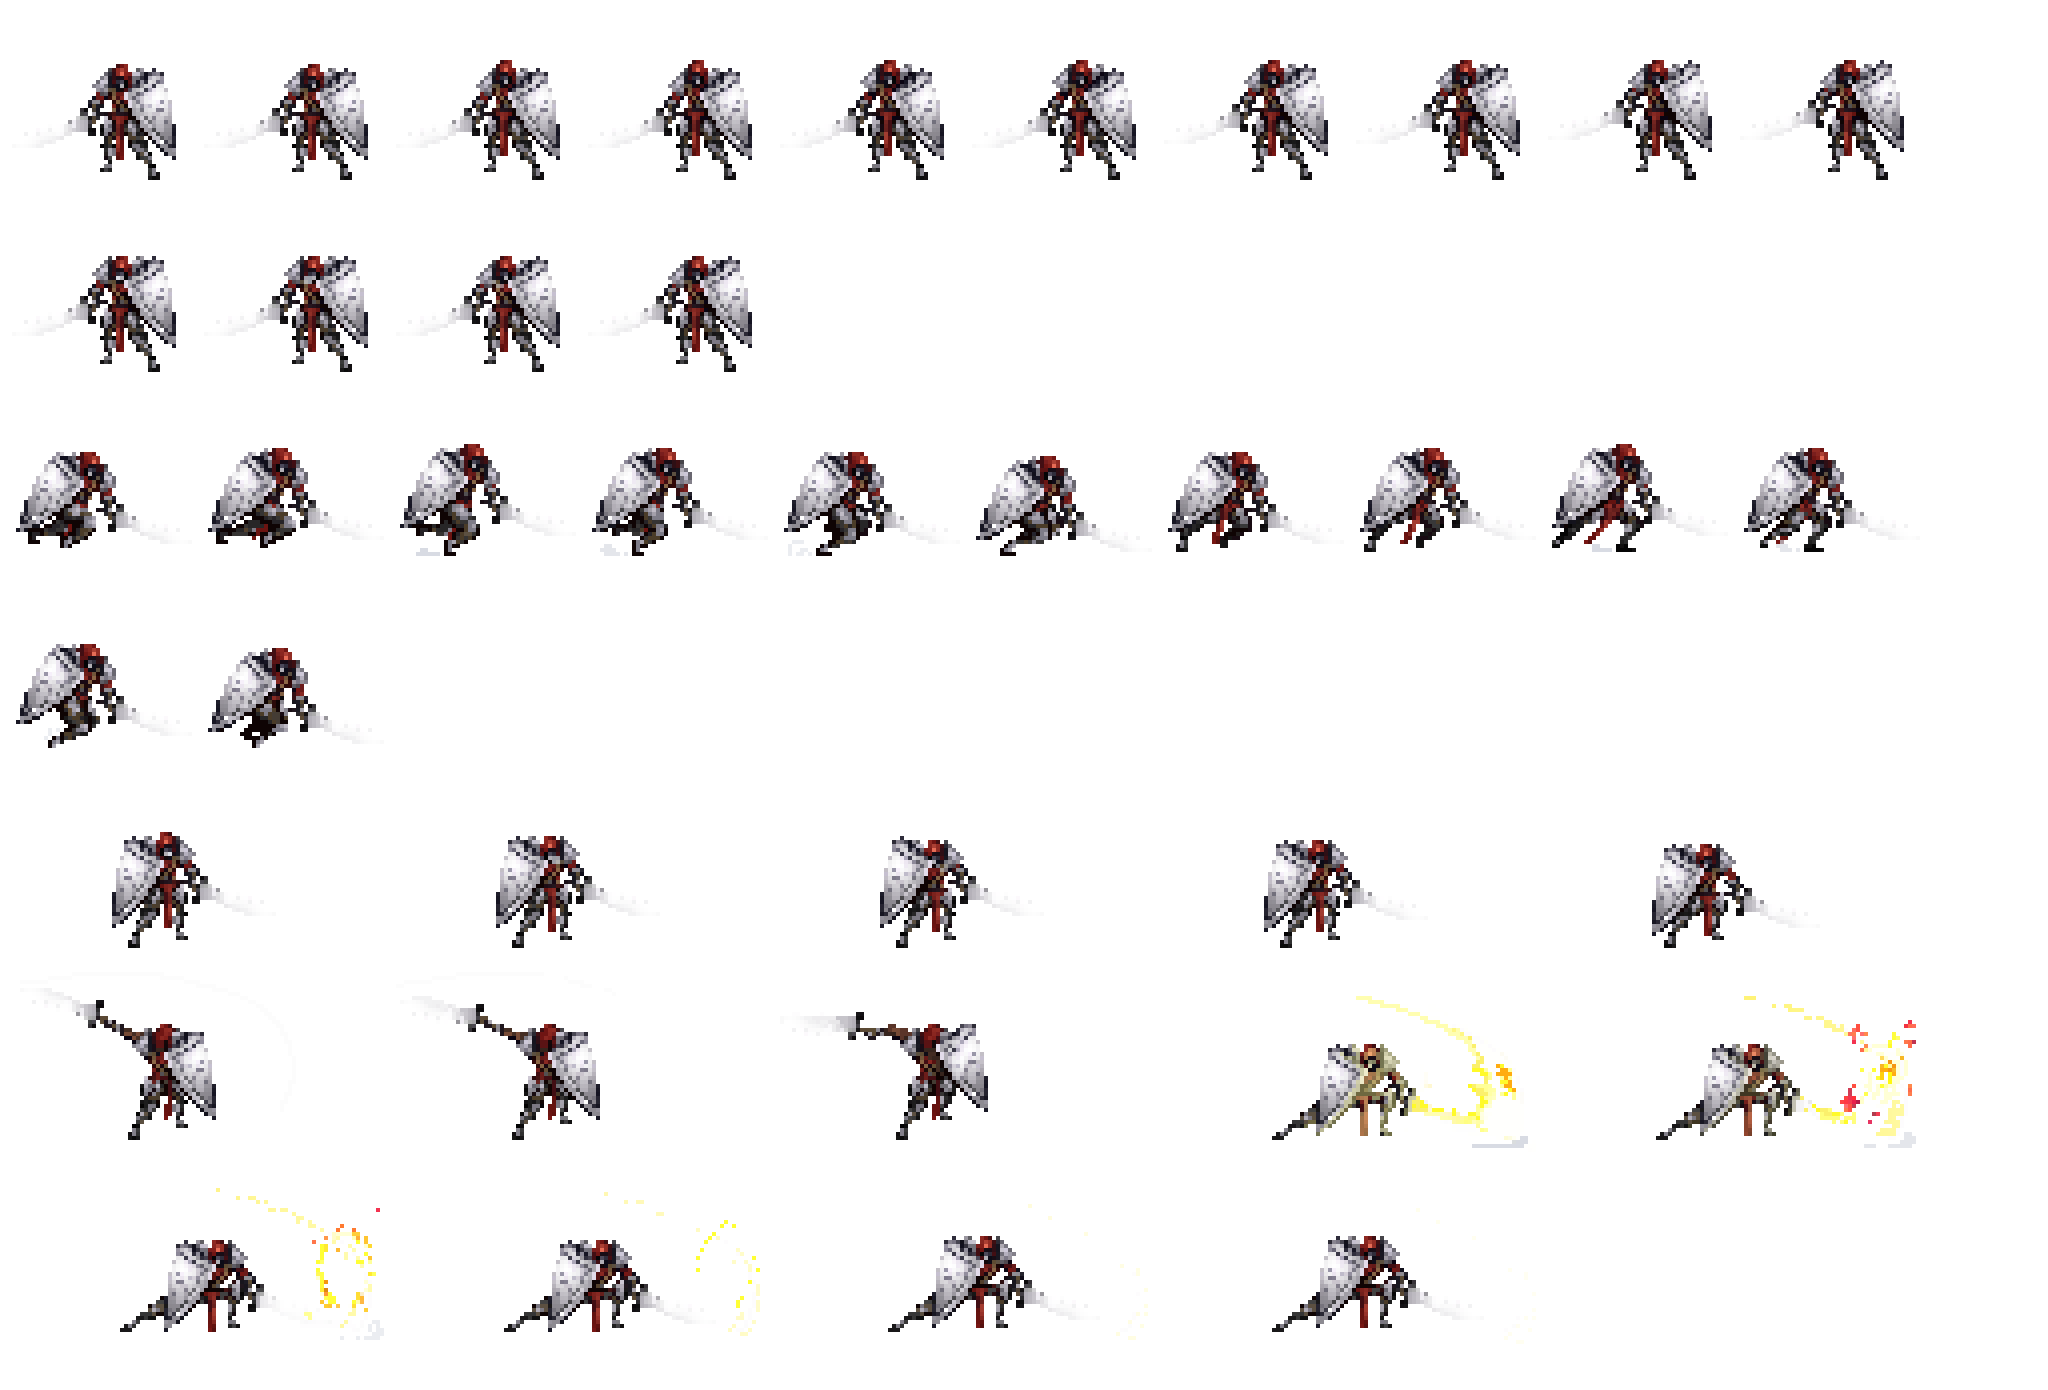
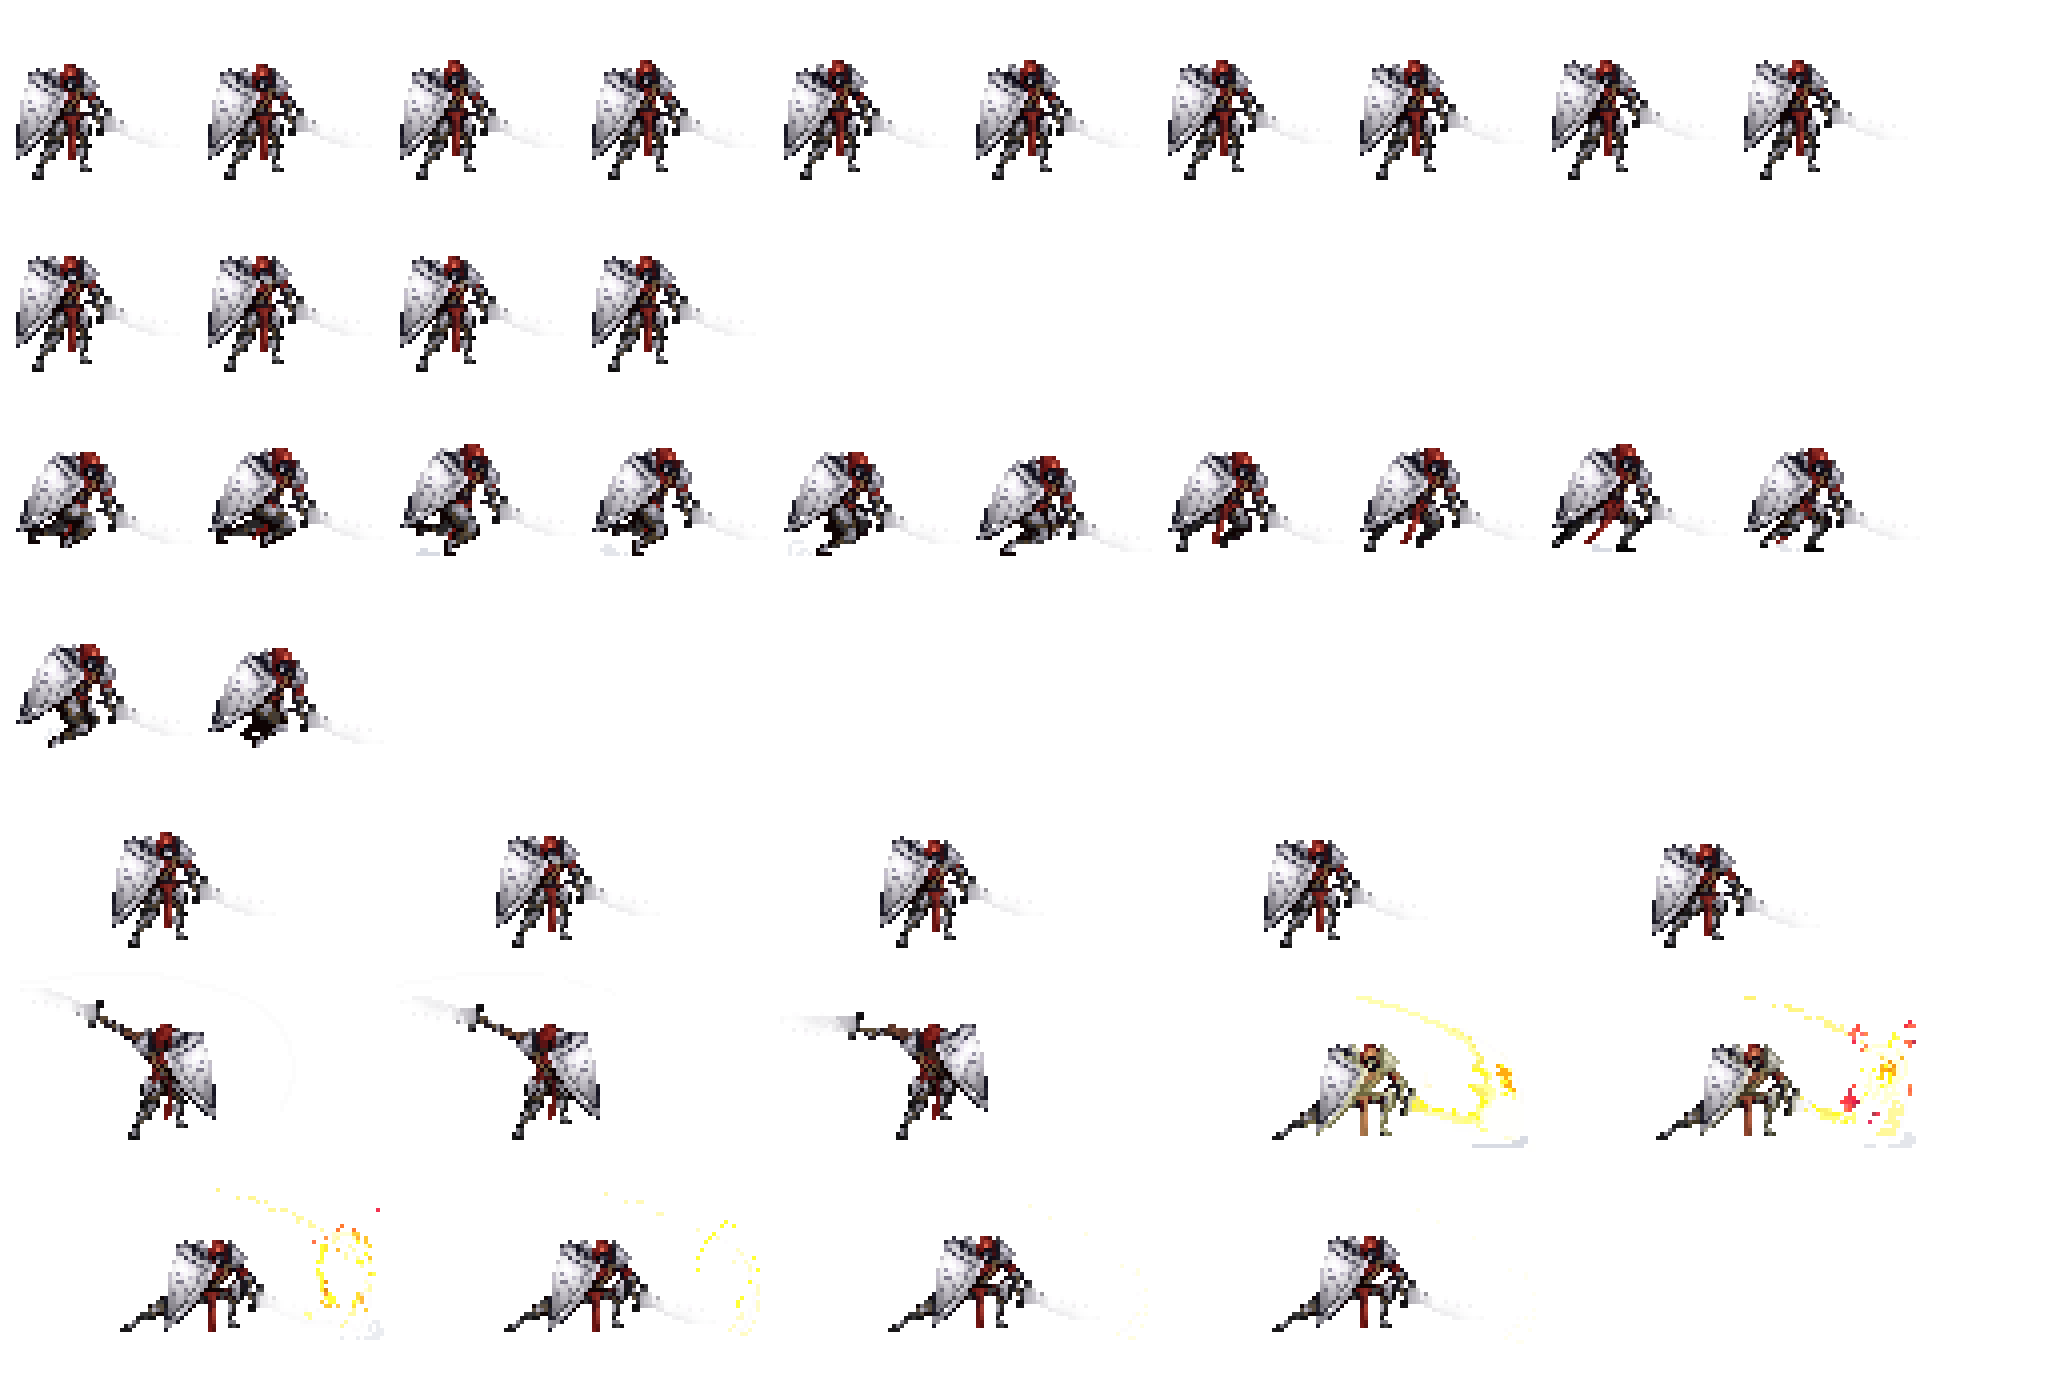
animation direction for flipping on x-axis

Changed region(s): [[0.0, 0.0309, 0.9375, 0.1237], [0.0, 0.1856, 0.375, 0.2784]]

diff --git a/oak/components/sprite_animation.cpp b/oak/components/sprite_animation.cpp
@@ -5,6 +5,7 @@
 #include <core/camera.h>
 #include <core/time.h>
 #include <debug.h>
+#include "animator.h"
 
 using namespace oak;
 
@@ -42,11 +43,13 @@ SpriteAnimation::SpriteAnimation(
 
   maxFramesX = texture.getWidth() / frameW;
   maxFramesY = texture.getHeight() / frameH;
+  //this->isFlipped = false;
 
 
   glGenVertexArrays(1, &VAO);
   glGenBuffers(1, &VBO);
-  setFrame();
+  setFrame(ANIM_DIRECTION_RIGHT);
+  lastFrameTime = Time::getTimeNow();
 }
 
 SpriteAnimation::~SpriteAnimation()
@@ -60,10 +63,11 @@ void SpriteAnimation::reset()
   curFrameX = 0;
   curFrameY = startFrameY;
   curFrameCount = 0;
-  setFrame();
+  setFrame(ANIM_DIRECTION_RIGHT);
+  lastFrameTime = Time::getTimeNow();
 }
 
-bool SpriteAnimation::onUpdate()
+bool SpriteAnimation::onUpdate(uchar direction, bool hasChangedDirection)
 {
   bool hasAnimEnded = false;
 
@@ -101,9 +105,15 @@ bool SpriteAnimation::onUpdate()
     //LOG << "here";
     //LOG << "new frame: " << curFrameX << ", " << curFrameY;
 
-    setFrame();
+    setFrame(direction);
+    lastFrameTime = Time::getTimeNow();
 
     
+  }
+  //if on same frame but the direction has changed
+  else if (hasChangedDirection)
+  {
+    setFrame(direction);
   }
 
   if (isLooping)
@@ -139,10 +149,8 @@ void SpriteAnimation::onDraw(float positionX, float positionY) const
   glDrawArrays(GL_TRIANGLES, 0, 6);
 }
 
-void SpriteAnimation::setFrame()
+void SpriteAnimation::setFrame(uchar direction)
 {
-  lastFrameTime = Time::getTimeNow();
-
   Texture& texture = Resources::getTextureByID(textureID);
   
   float xx = Window::worldToViewportCoords((float)displayW) * 0.5f;
@@ -150,6 +158,15 @@ void SpriteAnimation::setFrame()
 
   float xMin = (float)(curFrameX * frameW)/ texture.getWidth();
   float xMax = (float)((curFrameX+1) * frameW) / texture.getWidth();
+
+  //flip x
+  if (direction == ANIM_DIRECTION_LEFT)
+  {
+    float tmp = xMin;
+    xMin = xMax;
+    xMax = tmp;
+  }
+
   float yMin = (float)(curFrameY * frameH) / texture.getHeight();
   float yMax = (float)((curFrameY + 1) * frameH) / texture.getHeight();
 

diff --git a/oak/components/animator.cpp b/oak/components/animator.cpp
@@ -7,6 +7,7 @@ Animator::Animator(uchar baseAnimType, SpriteAnimation* baseAnimation)
   this->baseAnim = baseAnimType;
   anims[baseAnimType] = baseAnimation;
   this->curAnim = baseAnimType;
+
 }
 
 Animator::~Animator()
@@ -23,12 +24,13 @@ void Animator::onUpdate()
 {
   if (curAnim > 0)
   {
-    bool hasEnded = anims.at(curAnim)->onUpdate();
+    bool hasEnded = anims.at(curAnim)->onUpdate(direction, hasChangedDirection);
     if (hasEnded && curAnim != baseAnim)
     {
       setAnim(baseAnim, true);
     }
   }
+  hasChangedDirection = false;
 }
 
 void Animator::onDraw() const
@@ -66,4 +68,19 @@ void Animator::setAnim(const uchar animType, const bool ignorePriority)
 uchar Animator::getCurAnimType() const
 {
   return curAnim;
+}
+
+
+uchar Animator::getDirection() const
+{
+  return direction;
+}
+
+void Animator::setDirection(uchar direction)
+{
+  if (this->direction != direction)
+  {
+    hasChangedDirection = true;
+    this->direction = direction;
+  }
 }

diff --git a/oak/components/animator.h b/oak/components/animator.h
@@ -8,7 +8,8 @@
 
 namespace oak
 {
-  
+  cnum ANIM_DIRECTION_RIGHT = 0;
+  cnum ANIM_DIRECTION_LEFT = 1;
 
   class Animator : public Component
   {
@@ -16,7 +17,8 @@ namespace oak
     std::unordered_map<uchar, SpriteAnimation*> anims;
     uchar curAnim;
     uchar baseAnim;
-    
+    uchar direction;
+    bool hasChangedDirection = false;
 
     public:
       Animator(uchar baseAnimType, SpriteAnimation* baseAnimation);
@@ -25,6 +27,8 @@ namespace oak
       void addAnim(uchar animType, SpriteAnimation* animation);
       void setAnim(uchar animType, const bool ignorePriority = false);
       uchar getCurAnimType() const;
+      uchar getDirection() const;
+      void setDirection(uchar direction);
 
 
       void onUpdate() override;

diff --git a/prefabs/u_player.cpp b/prefabs/u_player.cpp
@@ -77,15 +77,9 @@ UPlayer::UPlayer()
   animator->setAnim(ANIM_TYPE_IDLE);
   addAnimator(animator);
 
-  //addComponent(
-  //  new SpriteAnimation(
-  //   // "anim_test2.png", 192, 192, 100, 100, 0.04f, "default", 14, 0)
-  //    //"anim_test2.png", 192, 192, 100, 100, 0.04f, "default", 12, 2)
-  //    "anim_test2.png", 384, 192, 200, 100, 0.04f, "default", 14, 4)
-  //);
   addAbility(new Shoot());
   addAbility(new SwordAttack());
-  addCollision(new CollisionRect(10.0f, -10.0f, 40.0f, 60.0f));
+  addCollision(new CollisionRect(0.0f, -10.0f, 40.0f, 60.0f));
   faction = FACTION_PLAYER;
 }
 

diff --git a/commands/cast_abilitys.cpp b/commands/cast_abilitys.cpp
@@ -25,20 +25,6 @@ void CastAbilitys::execute()
   if (Input::isKeyDown(KeyCode::Q))
   {
     beginCast(0);
-    //Unit* unit = player->getAssignedUnit();
-    //Ability* ability = unit->getAbilityByIndex(0);
-
-    //if (ability->getTargetType() == TARGET_TYPE_POINT)
-    //{
-    //  glm::vec2 point = Camera::cursorToWorld2D();
-    //  ability->castOnPoint(point);
-    //}
-    //else if (ability->getTargetType() == TARGET_TYPE_NO_TARGET)
-    //{
-    //  //glm::vec2 target = Camera::cursorToWorld2D();
-    //  ability->castNoTarget();
-    //}
-
   }
 
   if (Input::isKeyDown(KeyCode::E))

diff --git a/unit.h b/unit.h
@@ -32,6 +32,8 @@ namespace game
   cnum ANIM_PRIORITY_ABILITY =  2;
   cnum ANIM_PRIORITY_DISABLE =  3;
 
+  
+
   class Unit : public oak::Entity
   {
 
@@ -41,7 +43,6 @@ namespace game
     std::vector<Ability*> abilitys;
     int health;
     oak::Animator* animator;
-    
 
     public:
       Unit();
@@ -61,6 +62,8 @@ namespace game
       
       void addAnimator(oak::Animator* animator);
       void setAnimation(uchar animType);
+      uchar getAnimDirection() const;
+      void setAnimDirection(uchar direction);
 
       //void onStart() override;
       //void onDestroy() override;

diff --git a/commands/movement.cpp b/commands/movement.cpp
@@ -47,7 +47,20 @@ void Movement::execute()
     unit->position.x += speed * axisX;
     unit->position.y += speed * axisY;
 
+    //flip direction if required
+    if (axisX > 0.0f && unit->getAnimDirection() != ANIM_DIRECTION_RIGHT)
+    {
+      unit->setAnimDirection(ANIM_DIRECTION_RIGHT);
+      LOG << "DIRECTION RIGHT";
+    }
+    else if (axisX < 0.0f && unit->getAnimDirection() != ANIM_DIRECTION_LEFT)
+    {
+      unit->setAnimDirection(ANIM_DIRECTION_LEFT);
+      LOG << "DIRECTION LEFT";
+    }
+
     unit->setAnimation(ANIM_TYPE_RUN);
+
   }
   else
   {

diff --git a/oak/components/sprite_animation.h b/oak/components/sprite_animation.h
@@ -5,6 +5,7 @@
 #include <string>
 #include <core/types.h>
 
+
 namespace oak
 {
 
@@ -52,12 +53,13 @@ namespace oak
       ~SpriteAnimation();
 
       void reset();
-      bool onUpdate();
+      bool onUpdate(uchar direction, bool hasChangedDirection);
       void onDraw(float positionX, float positionY) const;
       float getTotalAnimDuration() const;
       uchar getPriority() const;
+
     private:
-      void setFrame();
+      void setFrame(uchar direction);
   };
 }
 #endif

diff --git a/unit.cpp b/unit.cpp
@@ -135,3 +135,13 @@ void Unit::setAnimation(uchar animType)
 {
   animator->setAnim(animType);
 }
+
+uchar Unit::getAnimDirection() const
+{
+  return animator->getDirection();
+}
+
+void Unit::setAnimDirection(uchar direction)
+{
+  animator->setDirection(direction);
+}
